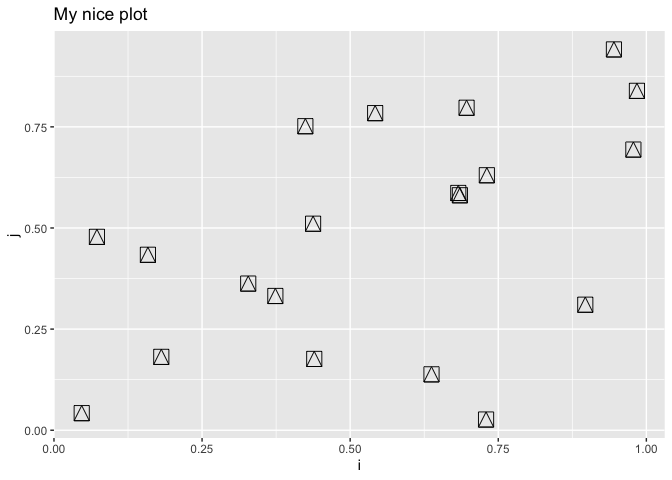
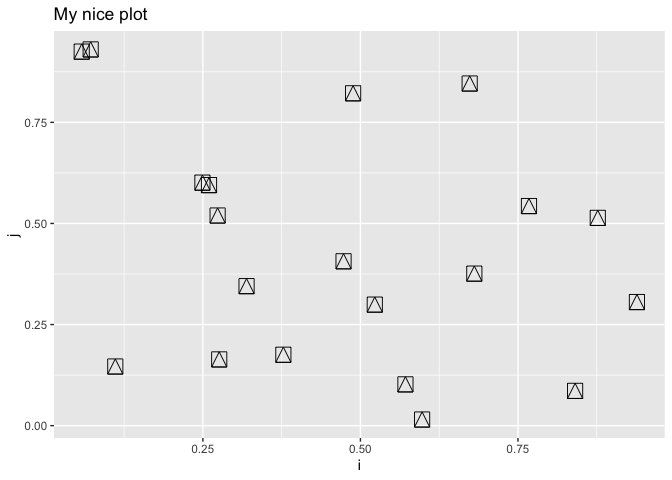
Correct typo plotter1 when should have been plotter2

diff --git a/0019_writing-functions/writing-functions.md b/0019_writing-functions/writing-functions.md
@@ -130,19 +130,18 @@ transform_data2 <- function(x, min_value, filter_by, sort_by) {
 transform_data2(dummy, 0.5, j, k)
 ```
 
-    # A tibble: 10 × 4
-          id     i     j      k
-       <int> <dbl> <dbl>  <dbl>
-     1     5 0.978 0.694 0.0390
-     2     6 0.437 0.511 0.151 
-     3     8 0.685 0.581 0.397 
-     4     3 0.542 0.784 0.518 
-     5    17 0.697 0.797 0.536 
-     6    12 0.731 0.630 0.552 
-     7    11 0.945 0.941 0.661 
-     8     1 0.424 0.752 0.752 
-     9     2 0.683 0.587 0.814 
-    10    16 0.984 0.839 0.870 
+    # A tibble: 9 × 4
+         id      i     j       k
+      <int>  <dbl> <dbl>   <dbl>
+    1     2 0.0719 0.930 0.00147
+    2    18 0.673  0.846 0.100  
+    3     8 0.488  0.822 0.256  
+    4     7 0.877  0.514 0.325  
+    5    13 0.260  0.595 0.478  
+    6    12 0.767  0.543 0.508  
+    7     9 0.273  0.520 0.594  
+    8     4 0.0577 0.925 0.871  
+    9    10 0.249  0.601 0.871  
 
 ``` r
 # Using := to modify the left hand side or name
@@ -160,20 +159,18 @@ transform_data3 <- function(x, min_value, filter_by, sort_by, new_name) {
 transform_data3(dummy, 0.5, i, k, "l")
 ```
 
-    # A tibble: 11 × 5
-          id     i      j      k      l
-       <int> <dbl>  <dbl>  <dbl>  <dbl>
-     1     5 0.978 0.694  0.0390 0.0382
-     2     9 0.897 0.310  0.157  0.141 
-     3     8 0.685 0.581  0.397  0.272 
-     4     3 0.542 0.784  0.518  0.281 
-     5    17 0.697 0.797  0.536  0.374 
-     6    12 0.731 0.630  0.552  0.403 
-     7    11 0.945 0.941  0.661  0.625 
-     8     7 0.637 0.138  0.681  0.434 
-     9    18 0.729 0.0265 0.722  0.527 
-    10     2 0.683 0.587  0.814  0.556 
-    11    16 0.984 0.839  0.870  0.856 
+    # A tibble: 9 × 5
+         id     i      j     k      l
+      <int> <dbl>  <dbl> <dbl>  <dbl>
+    1    18 0.673 0.846  0.100 0.0674
+    2     3 0.598 0.0152 0.136 0.0815
+    3     1 0.523 0.299  0.219 0.115 
+    4    11 0.939 0.306  0.222 0.208 
+    5     7 0.877 0.514  0.325 0.285 
+    6    15 0.571 0.102  0.384 0.220 
+    7    12 0.767 0.543  0.508 0.390 
+    8    19 0.681 0.376  0.543 0.369 
+    9    16 0.841 0.0860 0.778 0.654 
 
 ## Error handling for arguments
 
@@ -262,7 +259,5 @@ plotter2 <- function (plot_data, ..., title = "Placeholder title") {
   
 }
 
-plotter(dummy, size = 3, shape = 4, stroke = 5)
+plotter2(dummy, size = 3, shape = 4, stroke = 5)
 ```
-
-![](writing-functions_files/figure-gfm/unnamed-chunk-10-1.png)
